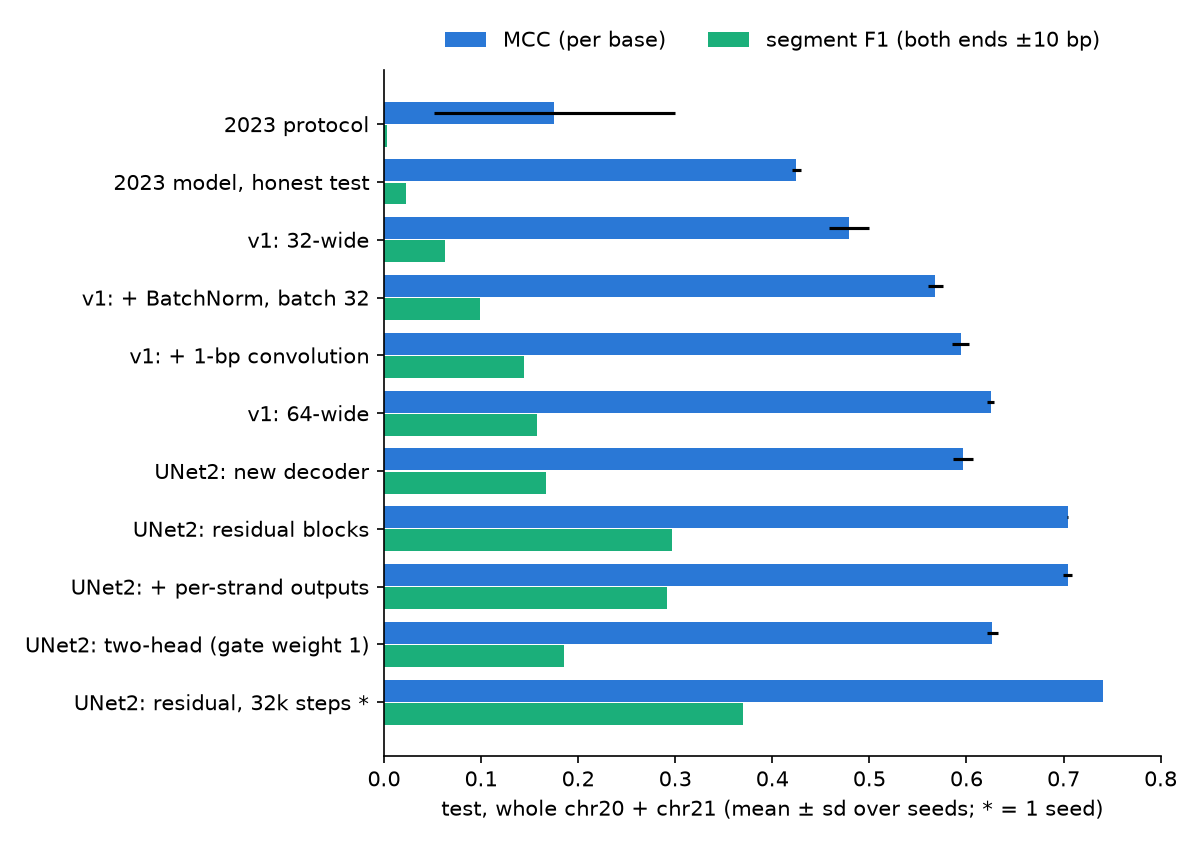
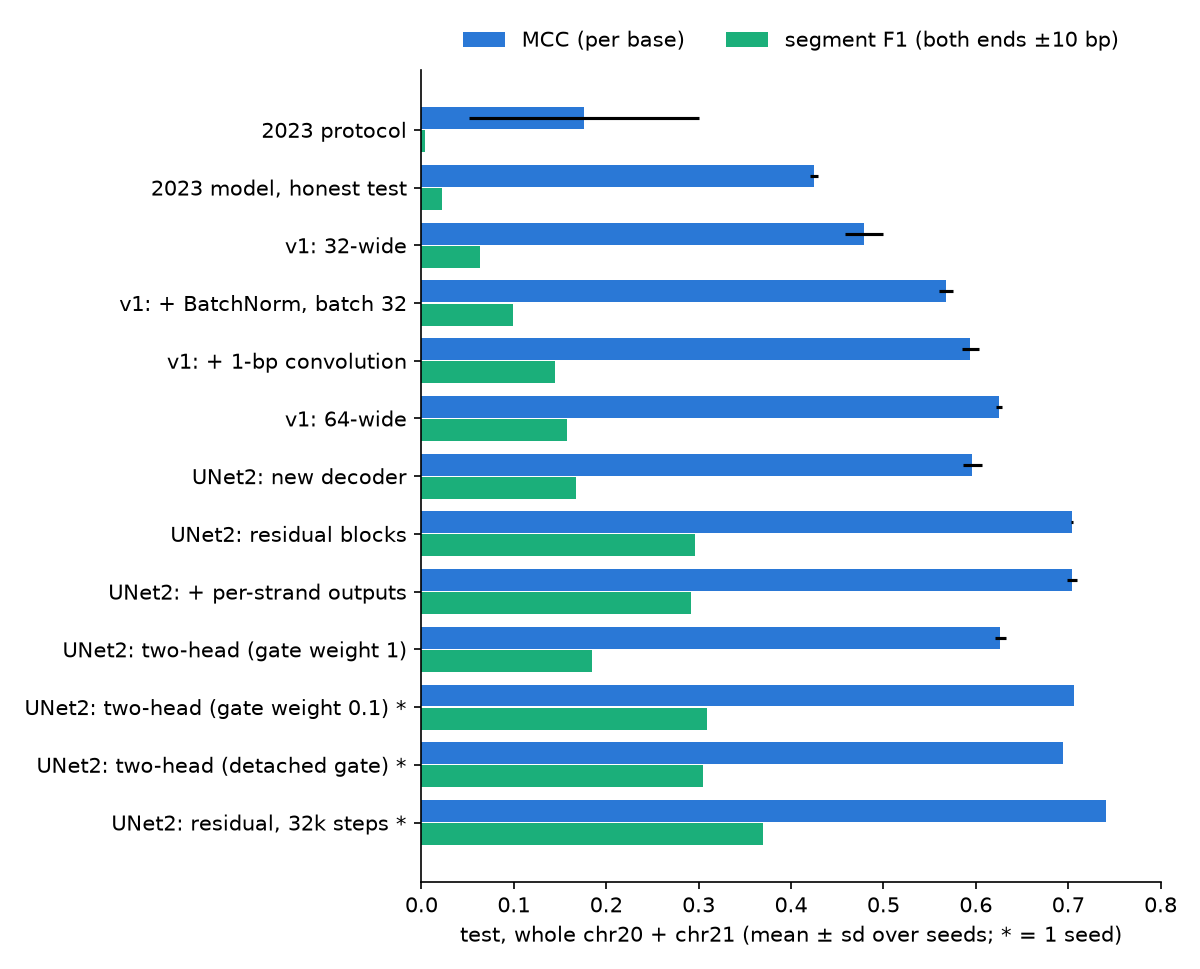
Results report: all stages, two-head variants and test-set composition; README updated

Changed region(s): [[0.0308, 0.0925, 0.9867, 0.987], [0.37, 0.0308, 0.925, 0.0617]]

diff --git a/docs/RESULTS.md b/docs/RESULTS.md
@@ -1,0 +1,133 @@
+# Results — CDS segmentation, version 2 (November 2026)
+
+All numbers are on the **test set: whole chromosomes 20 and 21** (104 Mbp of non-N sequence, 1.12 % of bases are CDS, 1 : 89), never used for training, threshold choice or model selection. Training: chromosomes 1–19; validation (model selection, thresholds): chromosome 22. Labels: RefSeq `BestRefSeq` CDS on either strand. Mean ± sd over seeds; runs with one seed are marked *(1 seed)* and are indicative only. All tables are generated from `runs/` by `experiments/report_figures.py` into [`results/experiments.csv`](../results/experiments.csv).
+
+**Status of these numbers.** They come from the model-*selection* phase: about 60 configurations were compared on the same test set. Validation and test MCC agree closely across configurations (Pearson r = 0.994 over 59 configurations), so choosing by validation would have picked the same models, but the best test score is still mildly optimistic. A final evaluation of one frozen configuration (3–5 seeds, test used once, homologous-gene filtering, external comparisons) is planned and not yet done.
+
+## 1. Metrics
+
+| Metric | Why |
+|---|---|
+| Base-level MCC (main) | Uses all four cells of the confusion matrix; trivial predictors score 0; robust to the 1 : 89 imbalance; used by SegmentNT and BEND |
+| AUPRC, F1, precision, recall | Threshold-free ranking quality; error type |
+| Segment F1 (both ends within ±0 / 3 / 10 bp) | Gene-finding convention: is the whole CDS segment recovered? |
+| Per-window Dice | Only to compare with the 2023 draft; **invalid** here: an empty predictor scores 0.94 and beats every trained model, and every Dice variant from the draft still ranks it first (`docs/metric_study.png`) |
+
+## 2. From the 2023 protocol to UNet2
+
+![Progression](../figures/v2_progression.png)
+
+| Stage | Parameters | Test MCC | AUPRC | Segment F1 ±10 bp | Seeds |
+|---|---|---|---|---|---|
+| 2023 model trained with the 2023 protocol (chr1, CDS 9–300 bp, 1 : 1 windows, Dice loss) | 0.49 M | 0.18 ± 0.12 | 0.08 | 0.00 | 3 |
+| 2023 model, honest protocol (19 chromosomes, BCE) | 0.49 M | 0.425 ± 0.005 | 0.397 | 0.023 | 3 |
+| v1 (2023 layout) 32-wide | 1.94 M | 0.479 ± 0.020 | 0.475 | 0.063 | 3 |
+| v1 32-wide + BatchNorm + batch 32 | 1.94 M | 0.568 ± 0.008 | 0.576 | 0.099 | 3 |
+| v1 + convolution at 1-bp resolution | 2.02 M | 0.594 ± 0.009 | 0.621 | 0.145 | 3 |
+| v1 64-wide + BatchNorm + batch 32 | 7.74 M | 0.625 ± 0.003 | 0.652 | 0.158 | 3 |
+| UNet2, standard decoder, plain blocks | 3.07 M | 0.596 ± 0.010 | 0.619 | 0.167 | 3 |
+| **UNet2, residual blocks** | 5.57 M | **0.704 ± 0.001** | **0.757** | **0.296** | 3 |
+| UNet2 + per-strand outputs | 5.57 M | 0.704 ± 0.005 | 0.757 | 0.292 | 3 |
+| UNet2, residual, 32k training steps | 5.57 M | 0.740 | 0.805 | 0.370 | 1 |
+
+UNet2 rows use reverse-complement averaging and 250-bp edge cropping at inference; without them the same checkpoints score 0.583 (plain blocks), 0.678 ± 0.004 (residual) and 0.673 (per-strand).
+
+## 3. What each experiment showed
+
+### 3.1 2023 layout (v1): 135-run sweep, one factor at a time, 3 seeds
+
+| Factor | Result | Conclusion |
+|---|---|---|
+| Training chromosomes 1 / 2 / 4 / 8 / 19 | 0.415 / 0.419 / 0.396 / 0.400 / 0.425 | Not data-limited at this size |
+| Width 4 / 8 / 16 / 32 / 64 (base channels) | 0.341 / 0.392 / 0.425 / 0.479 / 0.482 | Capacity-limited |
+| Kernel 5 / 9 / 15 / 21 / 31 / 41 / 61 | 0.305 / 0.346 / 0.383 / 0.405 / 0.420 / 0.425 / 0.428 | Context ≥ 31 bp needed |
+| Depth 2 / 3 / 4 levels | 0.430 / 0.425 / 0.435 | No effect |
+| Convolutions per level 1 / 2 / 3 | 0.425 / 0.424 / 0.244 ± 0.220 | 3 plain convolutions unstable |
+| BatchNorm | 0.472 (+0.047) | Helps |
+| Batch 32 / 64 / 128 / 256 / 512 (same windows seen) | 0.440 / 0.419 / 0.425 / 0.400 / 0.357 | Small batches better |
+| Learning rate 3e-4 / 1e-3 / 2e-3 / 5e-3 | 0.375 / 0.407 / 0.425 / 0.384 | 2e-3 |
+| Window 1 / 2 / 4 kb | 0.425 / 0.417 / 0.418 | No gain from longer windows |
+| CDS enrichment of training windows 0.5 / 0.2 / none | 0.425 / 0.419 / 0.396 | Enrichment helps a little |
+| Loss: BCE / focal / BCE pos-weight 5 / BCE + Dice / Dice, Tversky | 0.425 / 0.425 / 0.422 / 0.311 / 0.000 | Dice-type losses collapse to a constant output |
+| Soft-MCC loss; model selection by MCC | 0.380; 0.435 | Train with BCE, select by MCC |
+
+### 3.2 Architecture changes (3 seeds each)
+
+| Change | Test MCC | Why it was made |
+|---|---|---|
+| BatchNorm + batch 32 on the 32-wide model | 0.479 → 0.568 | Each helped alone; together they stabilise the wider model (with batch 128 the combination was unstable, 0.453 ± 0.034) |
+| One convolution at 1-bp resolution before the head | 0.568 → 0.594, segment F1 0.099 → 0.145 | The 2023 decoder's last convolution runs at 5-bp steps; boundaries were blurred and fragmented |
+| Standard decoder (upsample → concat → convolve) | 0.596 | The 2023 decoder convolves before seeing the skip-connection detail |
+| Residual blocks | **0.596 → 0.704** | Each block learns a correction; the shortcut keeps gradients flowing, so two convolutions per level train stably |
+| Per-strand outputs | 0.704 → 0.704 | No gain; dropped |
+| Reverse-complement averaging + edge cropping | 0.678 → 0.704 (same weights) | Strand symmetry; bases near window edges lack context |
+
+![Size vs MCC](../figures/v2_size_vs_mcc.png)
+
+At every size UNet2 is above the 2023 layout: 1.5 M UNet2 (0.670) > 7.7 M v1 (0.625), so the gain comes from the architecture, not from parameter count.
+
+### 3.3 Re-checks on UNet2 (1 seed each; reference 0.705 for the same seed)
+
+| Change | Test MCC | Segment F1 |
+|---|---|---|
+| Learning rate 1e-3 / 4e-3 | 0.681 / 0.714 | 0.261 / 0.326 |
+| 32k instead of 16k steps | **0.740** | **0.370** |
+| Training chromosomes 1 / 4 / 19 | 0.680 / 0.686 / 0.705 | 0.249 / 0.275 / 0.296 |
+| Width 32 → 16 (kernel 41) → 8 | 0.704 → 0.622 → 0.504 | 0.296 → 0.197 → 0.082 |
+| Kernel 41 → 21 → 11 (width 32) | 0.704 → 0.692 → 0.670 | 0.296 → 0.311 → 0.331 |
+| Width 16, kernel 21 (0.72 M) | 0.626 | 0.245 |
+
+Training length is the largest remaining lever; data helps mildly; width 32 is needed; the kernel can shrink to 21 at half the size. With a 1-kb window the bottleneck is 8 positions long, so a 41-wide kernel there mostly sees padding — a per-level kernel is the next design question.
+
+![Learning curves](../figures/v2_learning_curves.png)
+
+No overfitting in any run; validation loss plateaus. The 16k-step runs were still improving (OneCycle schedule ends with the learning rate near zero).
+
+### 3.4 Two-head model: classify the window first, segment only positive windows
+
+A window head on the bottleneck ("is there any CDS in these 1000 bp?") gates the decoder: windows below the threshold (set on validation to keep 99 % of CDS windows) are never decoded and are labelled "no CDS". Compared with the one-head twin of the same size trained separately (UNet2 residual, 5,567,585 vs 5,567,842 parameters):
+
+| Model | Seeds | MCC gate on | MCC gate off | Segment F1 | Windows decoded | Test scan, gate on vs off | Gate AUROC |
+|---|---|---|---|---|---|---|---|
+| One-head twin | 3 | — | 0.704 ± 0.001 | 0.296 | 100 % | — | — |
+| Two-head, gate loss weight 1 | 3 | 0.627 ± 0.006 | 0.627 | 0.185 | 64 % | 575 s vs 766 s | 0.916 |
+| Two-head, gate loss weight 0.1 | 1 | 0.706 | 0.706 | 0.310 | 60 % | 605 s vs 846 s | 0.934 |
+| Two-head, gate on detached features | 1 | 0.694 | 0.694 | 0.305 | 58 % | 567 s vs 849 s | 0.917 |
+
+- The gate never costs accuracy: on every model and every seed, gate on = gate off.
+- It saves 25–33 % of inference time.
+- Joint training with equal loss weights hurts segmentation (−0.08 MCC); a gate loss weight of 0.1 removes the harm (0.706 vs 0.704), and a gate trained on frozen features loses 0.01.
+
+### 3.5 Test-set composition
+
+The same predictions scored on test sets of different composition (sampled sets drawn 5 times; sd < 0.005). Training windows were about 53 % CDS-containing, 1 : 9.5 by base.
+
+![Ratio study](ratio_study.png)
+
+| Model | bases 1:1 | windows 1:1 | 1:5 | 1:10 | natural | Precision 1:1 → natural | Recall |
+|---|---|---|---|---|---|---|---|
+| One-head twin | 0.719 | 0.793 | 0.767 | 0.732 | 0.705 | 0.996 → 0.729 | 0.687 |
+| Two-head, weight 1 | 0.682 | 0.745 | 0.706 | 0.659 | 0.624 | 0.993 → 0.614 | 0.642 |
+| Two-head, weight 0.1 | 0.753 | 0.812 | 0.779 | 0.739 | 0.706 | 0.995 → 0.690 | 0.730 |
+| Two-head, detached gate | 0.780 | 0.827 | 0.783 | 0.733 | 0.694 | 0.994 → 0.638 | 0.764 |
+
+- Recall is fixed per model; adding CDS-free windows only adds false positives, so precision and MCC fall towards the natural ratio.
+- The gate does not reduce false positives: the windows it drops were already predicted empty. Its value is compute, not accuracy.
+- **Balanced test sets change the ranking**: the detached-gate model wins on balanced sets (higher recall) but is below the one-head twin on natural data (lower precision). Model choice must be made at the natural ratio.
+- Per-window Dice rises as empty windows are added (0.82 → 0.95), the opposite of the real difficulty — another reason not to use it.
+
+### 3.6 Isolated fragments (2023-layout model, to be repeated for UNet2)
+
+Each fragment predicted alone, no flanking sequence (draft assemblies, metagenomic contigs):
+
+| Fragment | 100 bp | 150 | 300 | 500 | 1 kb | 2 kb | 5 kb | 100 kb | whole chromosome |
+|---|---|---|---|---|---|---|---|---|---|
+| MCC | 0.354 | 0.402 | 0.486 | 0.528 | 0.560 | 0.554 | 0.547 | 0.550 | 0.577 |
+
+Accuracy reaches its plateau about 100–250 bp from a fragment edge (effective context ≈ ±250 bp). Inputs longer than the 1-kb training window lose precision; models trained on 2–4 kb windows are worse on short fragments. ![Fragments](fragment_length.png)
+
+## 4. Where the model stands
+
+- **Per base**: precision 0.72, recall 0.77, MCC 0.74, AUROC 0.99 (UNet2, 32k steps, 1 seed).
+- **Per segment**: 60 % of true CDS segments are found with both ends within ±10 bp, but only 27 % of predicted segments match a true one: predictions are fragmented and short exons (< 70 bp) are often missed. A structural decoding layer (HMM/CRF) is the next step.
+- **Not yet done**: same-task comparison with SegmentNT, Tiberius, AUGUSTUS and size-matched DilatedResNet / CNN-BiLSTM; homologous-gene filtering of the test set; final evaluation of a frozen configuration with 3–5 seeds and confidence intervals.

diff --git a/docs/RESEARCH_STATUS.md b/docs/RESEARCH_STATUS.md
@@ -45,7 +45,8 @@ Status: ✅ done · 🔄 running / script ready · ⏳ planned · ❓ needs a de
 | B2 | 2023 layout + one 1-bp convolution before the head (wide + BatchNorm + batch 32) | Fixes the missing full-resolution layer | ✅ | MCC 0.594 ± 0.009, AUPRC 0.621, segment F1 ±10 bp 0.145 (from 0.099), predicted segments 18k (from 27k); 14 min |
 | B3 | 64-wide + BatchNorm + batch 32 | Is capacity above 2M params useful once training is stable? | ✅ | Yes: MCC 0.625 ± 0.003, AUPRC 0.652, segment F1 0.158; 7.7M params, 21 min. Batch 32 also avoided the MPS crash |
 | V2 | UNet2: standard decoder, residual blocks, per-strand outputs; RC averaging and edge cropping at inference | Fixes the remaining weak points of the 2023 layout | ✅ | 3 seeds, test with RC + crop / plain: new decoder only 0.596 ± 0.010 / 0.583, seg F1 0.167; **+ residual blocks 0.704 ± 0.001 / 0.678, AUPRC 0.757, seg F1 0.296** (5.6M params); + two strand outputs 0.704 ± 0.005 / 0.673, seg F1 0.292 (no gain). Residual blocks are the main gain; RC + crop add ~+0.025 MCC and +0.07 seg F1 for free |
-| TH | Two-head UNet2: window gate head on the bottleneck (+257 params) trained jointly (gate loss weight 1), decoder runs only on windows the gate passes (threshold keeps 99% of CDS windows on validation) | User's two-stage hypothesis; twin = v2_residual trained separately | ✅ | 3 seeds: MCC 0.627 ± 0.006 with the gate = 0.627 without it, seg F1 0.185; gate AUROC 0.916, decodes 64% of test windows, test scan 575 s vs 766 s (−25%). The gate itself costs no accuracy, but joint training costs 0.08 MCC vs the one-head twin (0.704). Follow-ups queued: gate weight 0.1, detached gate |
+| TH | Two-head UNet2: window gate head on the bottleneck (+257 params) trained jointly (gate loss weight 1), decoder runs only on windows the gate passes (threshold keeps 99% of CDS windows on validation) | User's two-stage hypothesis; twin = v2_residual trained separately | ✅ | 3 seeds: MCC 0.627 ± 0.006 with the gate = 0.627 without it, seg F1 0.185; gate AUROC 0.916, decodes 64% of test windows, test scan 575 s vs 766 s (−25%). The gate itself costs no accuracy, but joint training costs 0.08 MCC vs the one-head twin (0.704). **Gate weight 0.1 (1 seed): MCC 0.706 with the gate = 0.706 without, seg F1 0.310 — equal to the one-head twin, while decoding 60 % of windows (test 605 s vs 846 s, −29 %); gate AUROC 0.934.** Detached gate (1 seed): MCC 0.694 gated = ungated, seg F1 0.305, 58 % of windows decoded, test 567 s vs 849 s (−33 %) |
+| RS | Test-set composition: bases 1:1; windows with CDS : empty 1:1, 1:5, 1:10; natural (one-head twin and the three two-head variants, gate on/off) | How the class balance of the test set changes scores; does the gate reduce false positives? | ✅ | Recall is fixed per model; precision falls as empty windows are added (one-head: 0.996 → 0.729), so MCC falls (0.79 at windows 1:1 → 0.70 natural). Gate on = gate off on every set: the windows the gate drops were already predicted empty, so the gate saves compute but does not remove false positives. **Model ranking depends on composition**: the detached-gate model is best on balanced sets (0.83) and worst-but-one on natural data (0.69, lower precision). Per-window Dice rises as empty windows are added (0.82 → 0.95), the opposite of the real difficulty. Training used ~53 % CDS windows, 1 : 9.5 by base |
 | SM | Smaller UNet2 (residual, 1 seed) | How small can the model get | ✅ | 32-wide kernel 11: 1.54M params, MCC 0.670, seg F1 0.331; 32-wide kernel 21: 2.88M, 0.692, 0.311; 16-wide kernel 21: 0.72M, 0.626, 0.245; 16-wide kernel 41: 1.39M, 0.622, 0.197; 8-wide kernel 41: 0.35M, 0.504, 0.082 (reference 32-wide kernel 41: 5.6M, 0.704, 0.296). Width matters more than kernel size |
 | V2C | Re-checks on UNet2 (residual, 1 seed) | Do conclusions from the 2023 layout hold? | ✅ | lr 1e-3 0.681, lr 4e-3 0.714 (seg F1 0.326) vs 2e-3 0.705; **32k steps 0.740, AUPRC 0.805, seg F1 0.370** (val MCC still rising at 16k: undertrained); training data 1 / 4 / 19 chromosomes: 0.680 / 0.686 / 0.705 (seg F1 0.249 / 0.275 / 0.296) — data helps mildly |
 | E6 | Two-stage: window classifier gates the U-Net | Answers Q5 | 🔄 | Classifier window AUROC 0.90. Gate at recall 0.90: 28.5 % of windows segmented, 9.3 % of CDS lost, MCC 0.450 vs 0.435 one-stage, precision 0.555 vs 0.516, about 30 % less compute |

diff --git a/README.md b/README.md
@@ -7,7 +7,7 @@ The project has two versions:
 - **2026 (current):** the method rebuilt as a reproducible pipeline (`cdsseg/`), evaluated on whole held-out chromosomes with a metric that works under heavy class imbalance, and a redesigned network (UNet2). Test MCC went from **0.18** (2023 protocol) to **0.70–0.74**.
 - **2023 (original):** individual research project, Bauman Moscow State Technical University; notebooks and the paper draft are kept in [`notebooks/`](notebooks/) and [`paper/`](paper/draft_2023_cleaned.docx) and summarised [at the end](#the-2023-version).
 
-Work in progress: the remaining experiments, open questions and their status are tracked in [`docs/RESEARCH_STATUS.md`](docs/RESEARCH_STATUS.md).
+Full results with all tables: [`docs/RESULTS.md`](docs/RESULTS.md). Open questions and their status: [`docs/RESEARCH_STATUS.md`](docs/RESEARCH_STATUS.md).
 
 ## Main result
 
@@ -110,7 +110,7 @@ Each change was tested on its own, on top of the previous best, with 3 seeds:
 | Windows decoded | 64 % | 100 % |
 | Test scan time | 575 s vs 766 s (−25 %) | 766 s |
 
-The gate itself costs no accuracy and saves a quarter of the compute; training both heads jointly with equal loss weights hurt the shared encoder. Variants with a lighter gate loss and with a gate trained on detached features are running.
+The gate itself costs no accuracy and saves a quarter of the compute; training both heads jointly with equal loss weights hurt the shared encoder. With the gate loss weighted 0.1 the two-head model matches its twin (MCC 0.706, segment F1 0.310, 1 seed) while decoding only 60 % of windows (−29 % inference time). Scoring the same predictions on test sets from balanced to natural composition shows that the gate does not remove false positives (the windows it drops were already predicted empty) and that balanced test sets can reverse the ranking of models ([`docs/RESULTS.md`](docs/RESULTS.md#35-test-set-composition)).
 
 **Isolated fragments** (no flanking sequence; relevant to draft assemblies and metagenomic contigs; measured on the 2023-layout model, to be repeated for UNet2): fragments of 500–1000 bp lose little (MCC 0.53–0.56 vs 0.58 on whole chromosomes), 100–150 bp drop to 0.35–0.40; a model is best applied at the window length it was trained on ([`docs/fragment_length.png`](docs/fragment_length.png)).
 
